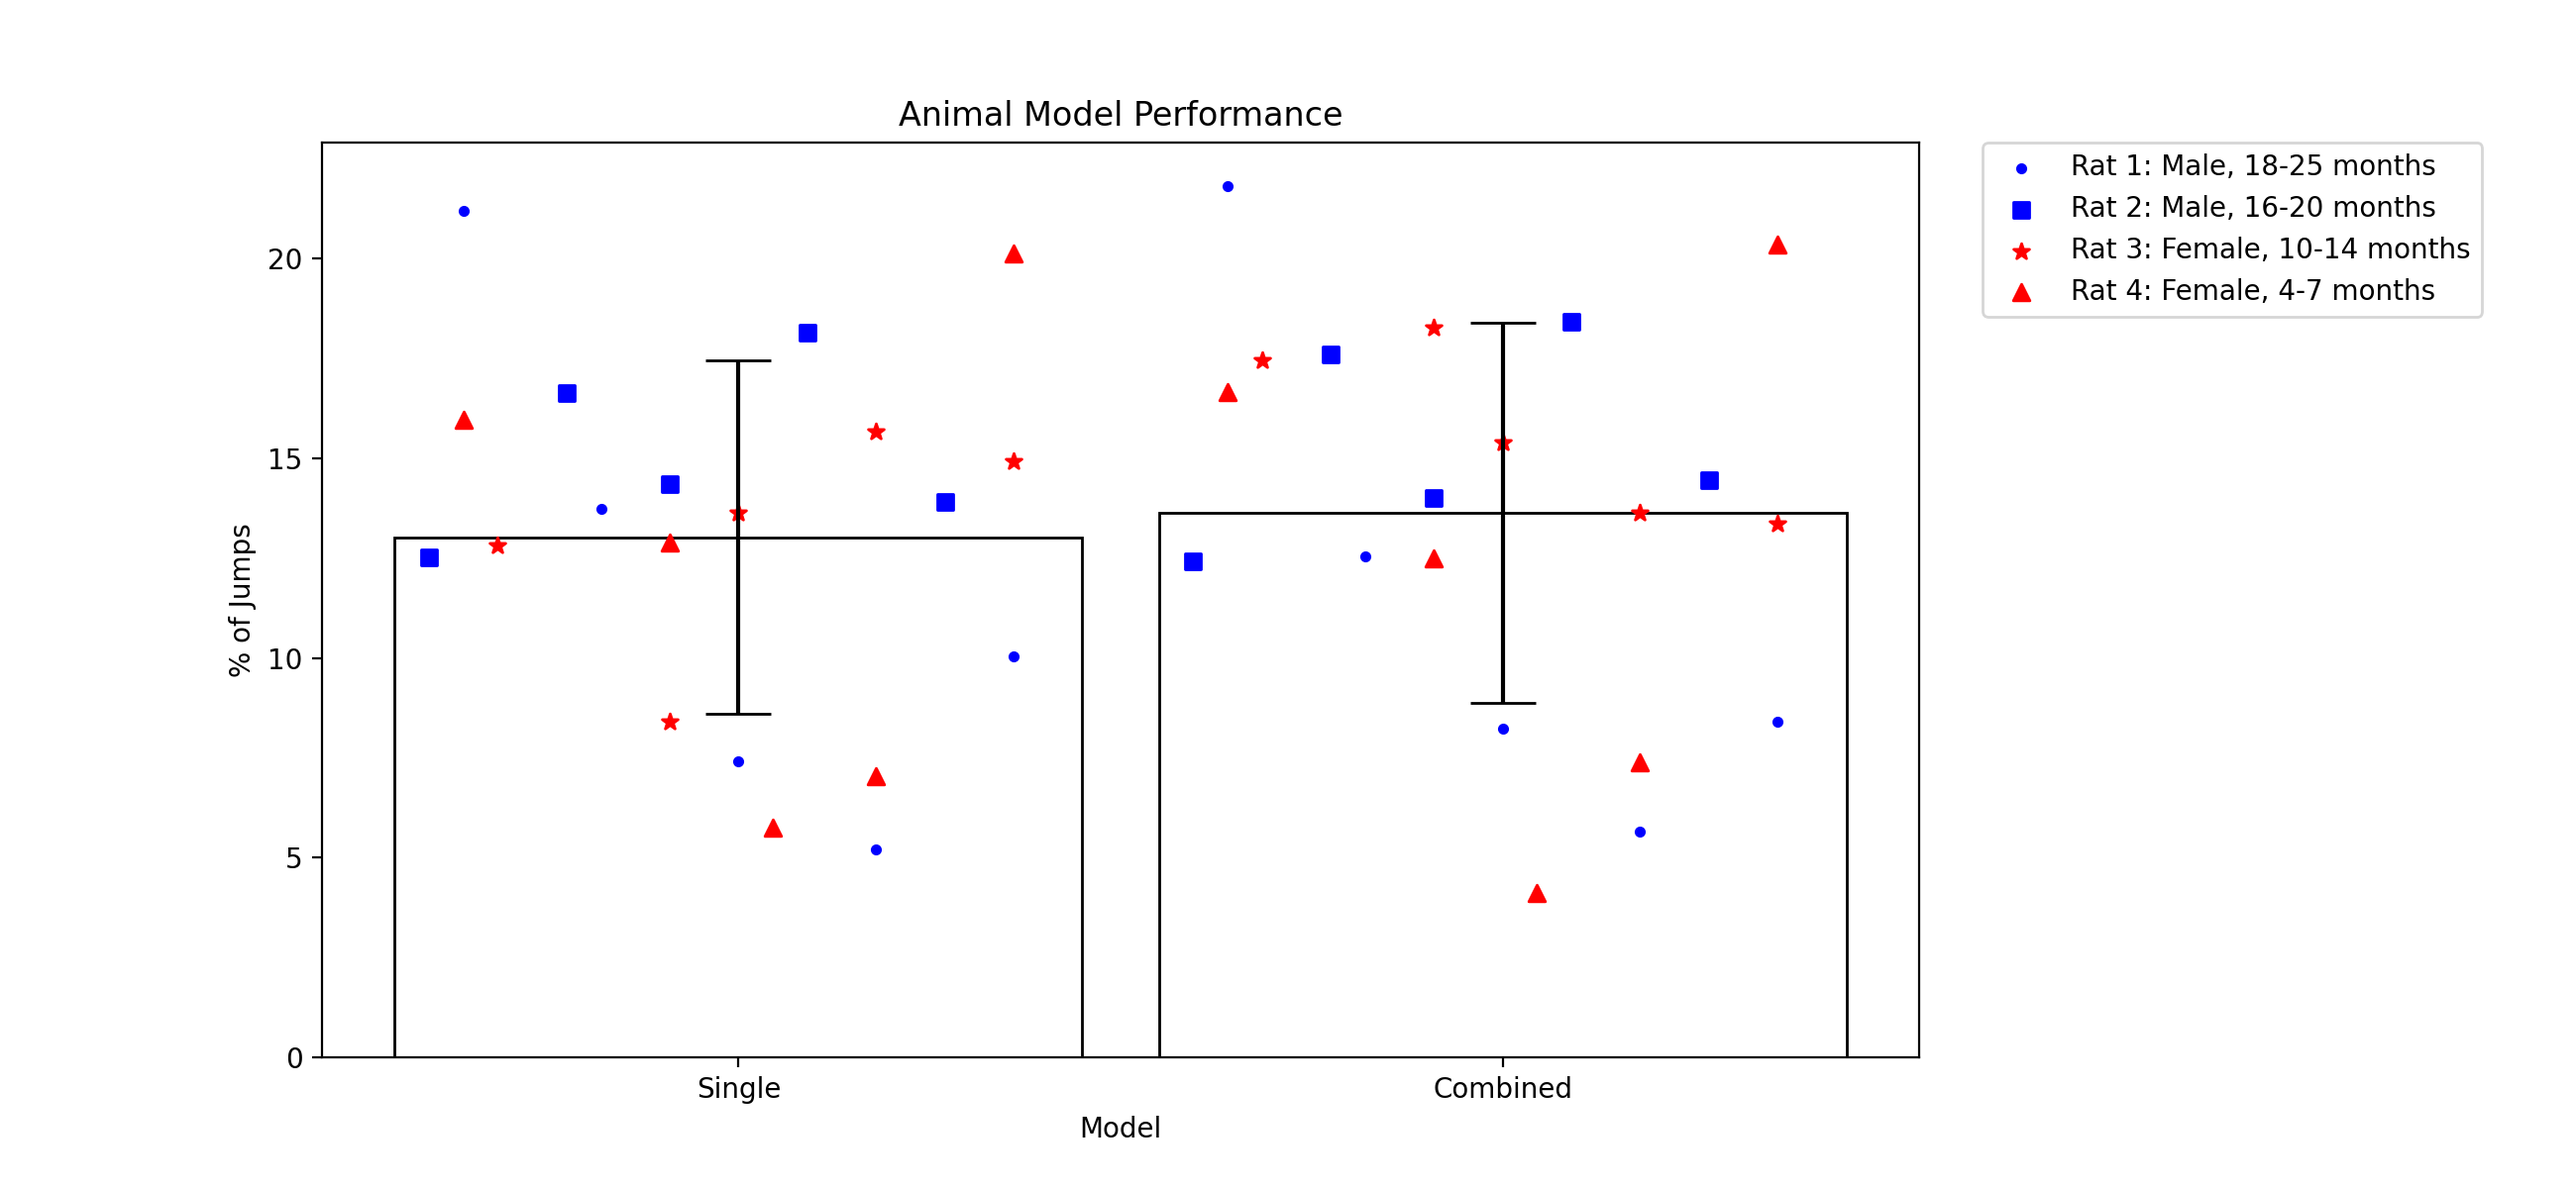
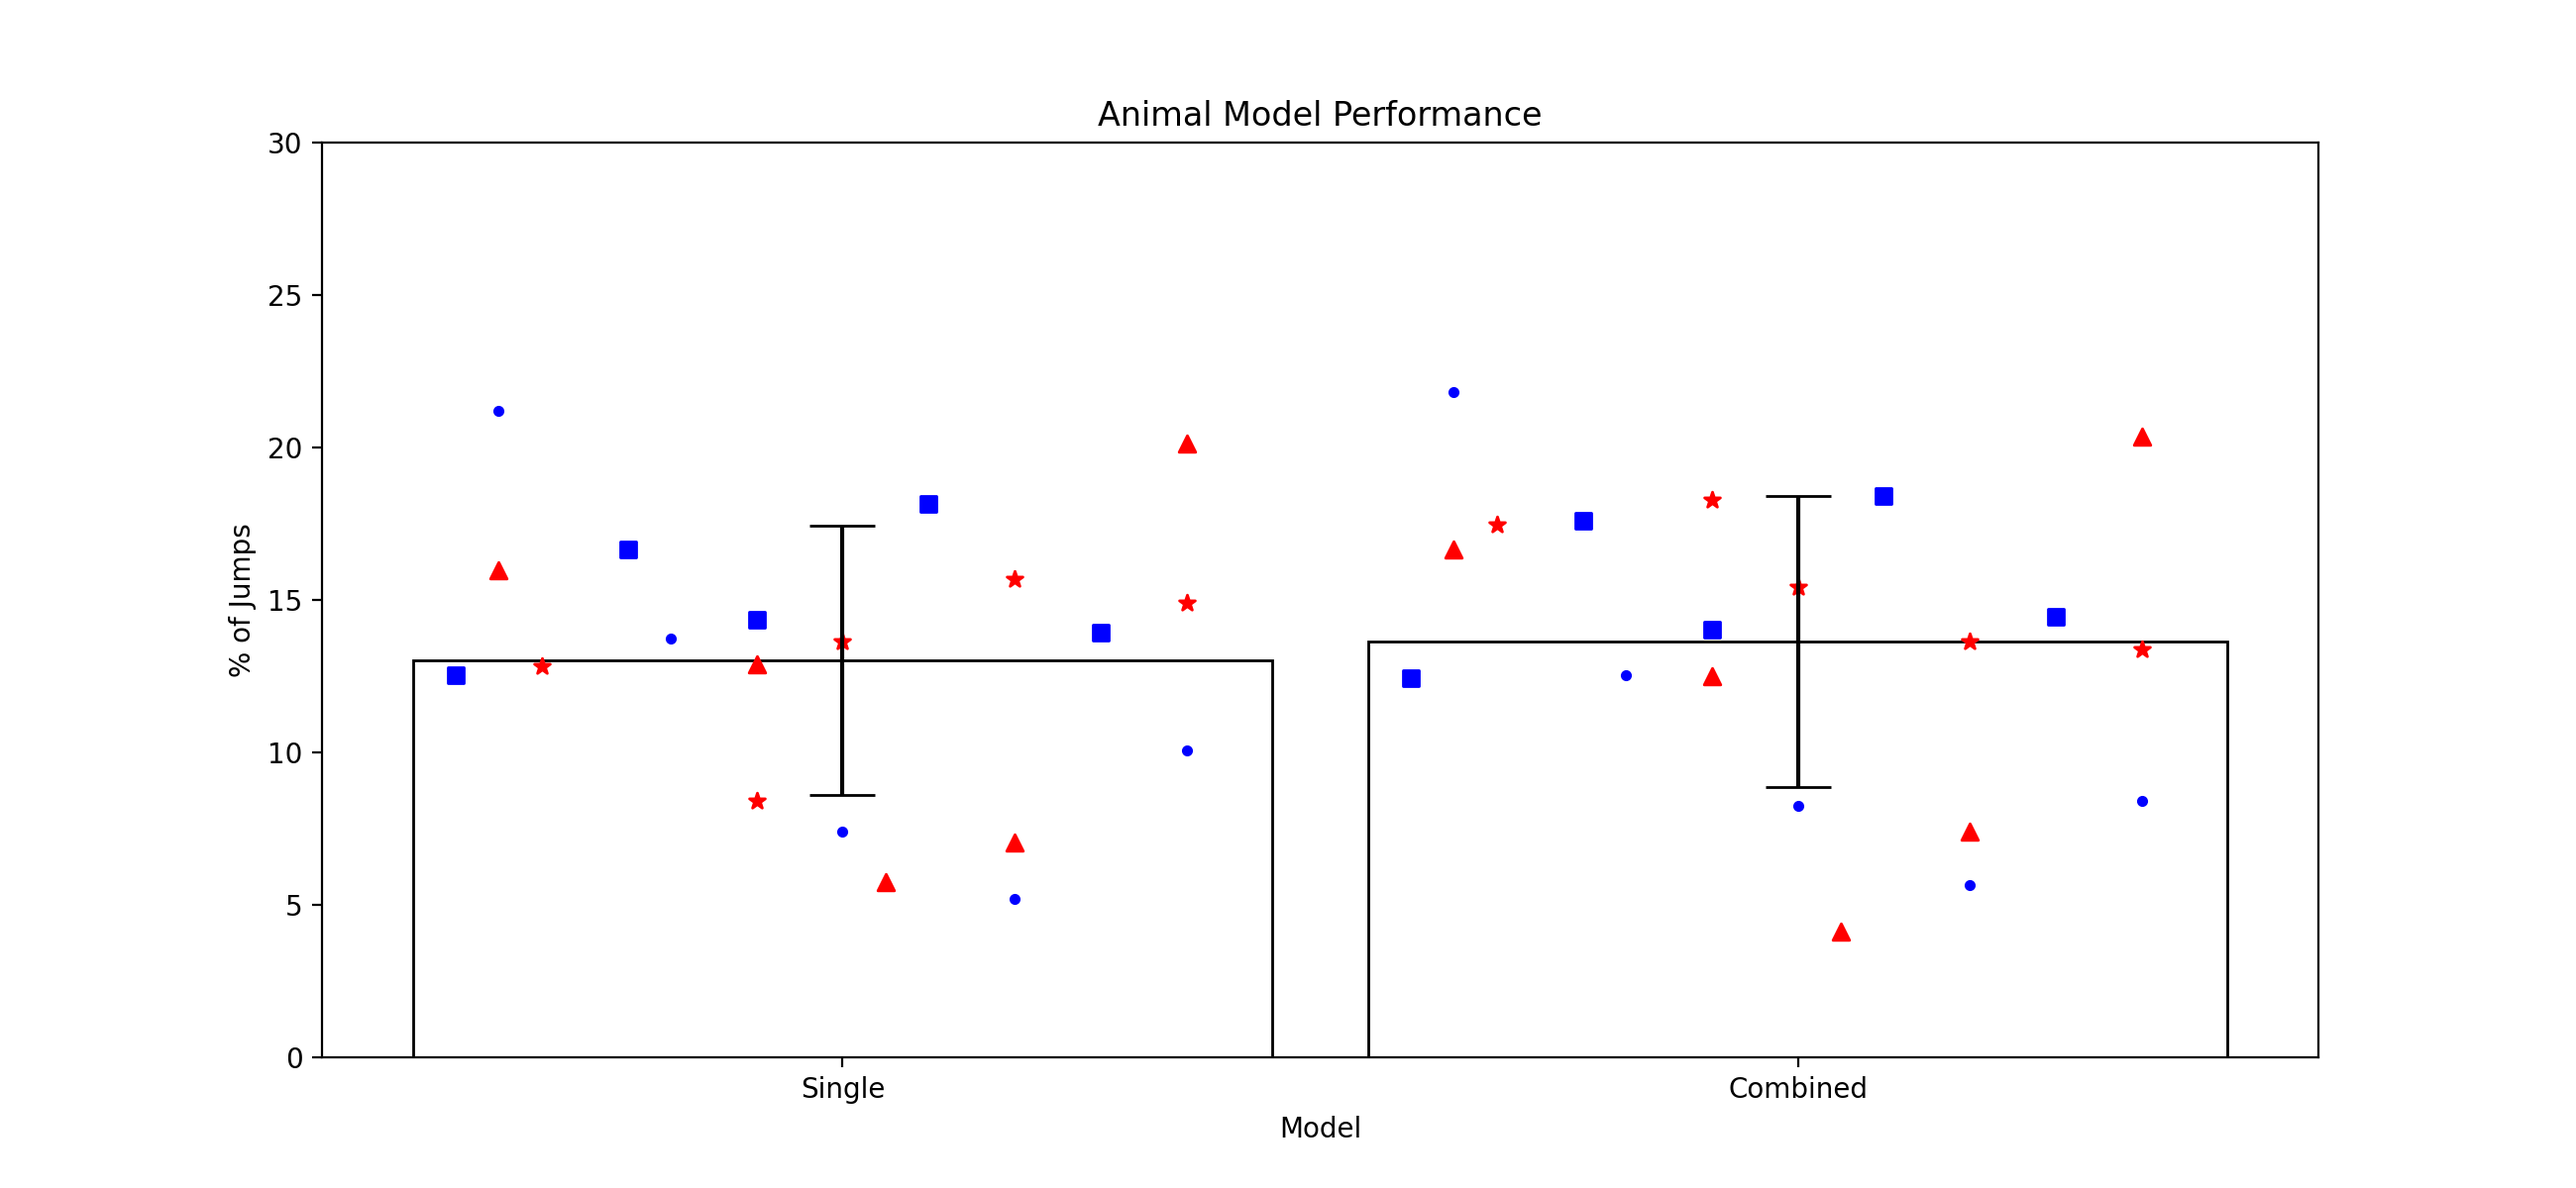
DLC update

diff --git a/DeepLabCut/DLC_jump_analysis/all_trackers/jump_analysis.py b/DeepLabCut/DLC_jump_analysis/all_trackers/jump_analysis.py
@@ -2,7 +2,6 @@ import pandas as pd
 import matplotlib.pyplot as plt
 import numpy as np
 import os
-from scipy import stats
 
 #shows 3 graphs in total. First: single, combined. Second: 4 individual trackers. Third: single, combined, avg of 4 ind trackers
 
@@ -91,6 +90,8 @@ def main(full_path, relative_path, fname1, fname2, fname3):
 
     os.chdir(current_dir + '/saved_figs')
 
+
+    plt.ylim(0, 30)
     plt.title("Animal Model Performance")
     plt.xlabel("Model")
     plt.ylabel("% of Jumps")
@@ -104,7 +105,7 @@ def main(full_path, relative_path, fname1, fname2, fname3):
 
         ax.legend(["Rat 1: Male, 18-25 months", "Rat 2: Male, 16-20 months", "Rat 3: Female, 10-14 months", "Rat 4: Female, 4-7 months"], bbox_to_anchor=(1.04, 1), borderaxespad=0)
 
-    legend()
+    #legend()
     plt.savefig(fname1, dpi=200)
     plt.show()
     plt.close()
@@ -165,10 +166,11 @@ def main(full_path, relative_path, fname1, fname2, fname3):
     plt.scatter(x_fig2[3] + np.array([0.12, 0.4, 0.5, 0.7, 0.9]) * w - w / 2, Rear5_tracker[10:15], color=colors[0], marker='*') #star marker = RC1
 
   
+    plt.ylim(0, 30)
     plt.title("Animal Model Performance")
     plt.xlabel("Individual Model")
     plt.ylabel("% of Jumps")
-    legend()
+    #legend()
     plt.savefig(fname2, dpi=100)
     plt.show()
     plt.close()
@@ -252,10 +254,11 @@ def main(full_path, relative_path, fname1, fname2, fname3):
         plt.scatter(x_fig3[i] + np.array([0.15, 0.4, 0.6, 0.7, 0.9]) * w - w / 2, y[10:15], color=colors[0], marker = "*") #star marker = RC1
         plt.scatter(x_fig3[i] + np.array([0.1, 0.4, 0.55, 0.7, 0.9]) * w - w / 2, y[15:20], color=colors[0], marker = "^") #triangle marker = Rear5
 
+    plt.ylim(0, 30)
     plt.title("Animal Model Performance")
     plt.xlabel("Model")
     plt.ylabel("% of Jumps")
-    legend()
+    #legend()
     plt.savefig(fname3, dpi=200)
     plt.show()
     plt.close()
